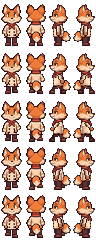
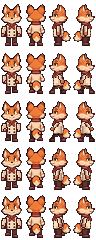
Jasper: front walk arm swing, no stray paws, thicker arms
Front walk rebuilt with tools/front_walk_arms.py (wide sleeves, elbow bend
forward, the back arm behind him); the painted stand kept as
npc_jasper_bare.png. poses.py: his walk paws' inner halves come off with
the arms (hand_boxes) and arms keep their width (thick_arms); actions and
heart events rebuilt.

Claude-Session: https://claude.ai/code/session_013NFuzH4fkTFkF6ZrQzp2x8

diff --git a/tools/front_walk_arms.py b/tools/front_walk_arms.py
@@ -34,6 +34,15 @@ SWING = {
     }, hands={"rest": (-1, 7), "forward": (1, 5), "back": (2, 5)},
         elbows={"back": (0, 3)},
         bracer=("#86593f", "#6b3a2c")),     # her leather bracers cover the forearms
+    # Jasper (24 Nov): chef's coat to row 37 with wide white sleeves and orange paws
+    "jasper": dict(hem=37, elbow=(-1, 4), rows={
+        0: dict(L="rest", R="rest"),
+        1: dict(L="back", R="forward"),
+        2: dict(L="forward", R="back"),
+        3: dict(L="rest", R="rest"),
+        4: dict(L="rest", R="rest"),
+    }, hands={"rest": (-1, 7), "forward": (1, 5), "back": (2, 5)},
+        elbows={"back": (0, 3)}, arm_w=3, shoulders={"L": (3, 27), "R": (17, 27)}),   # his wide sleeves
 }
 BOB = {0: 0, 1: 1, 2: 1, 3: 0, 4: 0}
 
@@ -60,7 +69,7 @@ def build(art, name):
         layer = np.zeros_like(cell)
         behind = np.zeros_like(cell)
         for side, sign in (("L", 1), ("R", -1)):
-            sx, sy = rig["d"][side]
+            sx, sy = cfg.get("shoulders", {}).get(side, rig["d"][side])
             dx, dy = cfg["hands"][hands[side]]
             ex, ey = cfg.get("elbows", {}).get(hands[side], cfg["elbow"])
             # the viewer's right arm is the left one mirrored (the arm is drawn from its left
@@ -68,11 +77,11 @@ def build(art, name):
             hx, elx = (sx + dx, sx + ex) if sign > 0 else (sx - dx, sx - ex)
             one = np.zeros_like(layer)
             P.draw_arm(one, (sx, sy + bob), (hx, sy + bob + dy), 0, pal,
-                       width=rig.get("arm_w", 2), elbow=(elx, sy + bob + ey), thick=True)
+                       width=cfg.get("arm_w", rig.get("arm_w", 2)), elbow=(elx, sy + bob + ey), thick=True)
             if cfg.get("bracer"):
                 lit, dark = (P.hexc(c) for c in cfg["bracer"])
                 line = pal["line"]
-                w = rig.get("arm_w", 2)
+                w = cfg.get("arm_w", rig.get("arm_w", 2))
                 fore = P.line_pts((elx, sy + bob + ey), (hx, sy + bob + dy - 1))
                 top = min(y for _, y in fore)
                 for (x, y) in fore:

diff --git a/tools/poses.py b/tools/poses.py
@@ -1375,6 +1375,10 @@ RIGS = {
         u=dict(arms=[(1, 5, 26, 37), (17, 21, 26, 37)], L=(5, 27), R=(17, 27)),
         l=dict(N=(10, 25), F=(11, 25)),
         hip=dict(d=38, u=38, l=37),
+        # (24 Nov) the inner halves of the walk's paws at the hem come off too, and the arms keep their
+        # width held out sideways
+        hand_boxes=dict(d=[(6, 7, 34, 35), (15, 16, 34, 35)], u=[(6, 7, 34, 35), (15, 16, 34, 35)]),
+        thick_arms=True,
         sleep=dict(eyes=[(7, 14, 2, 3), (14, 14, 2, 3)], skin="#f5823a", lash="#2a1510",
                    neck=23, top=30),
     ),
